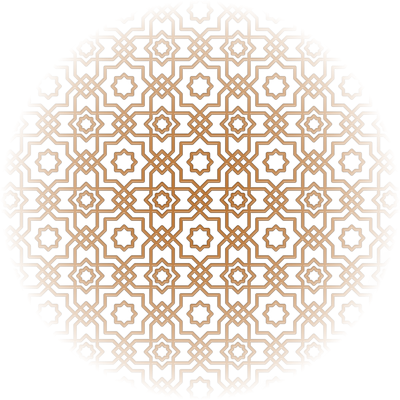
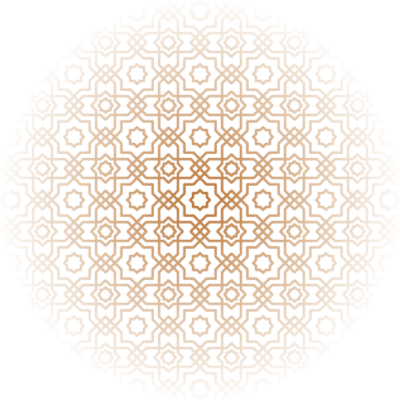
optimzing images and adding astrolab

diff --git a/src/scripts/astrolab.ts b/src/scripts/astrolab.ts
@@ -7,10 +7,10 @@ if (axe !== null) {
     const currentX = e.clientX;
     const currentY = e.clientY;
     const { height, width, x, y } = axe.getBoundingClientRect();
-    const disX = Math.ceil(currentX - (x + width / 2));
-    const disY = Math.ceil(currentY - (y + height / 2));
+    const disX = currentX - (x + width / 2);
+    const disY = currentY - (y + height / 2);
 
-    const angle = (Math.atan(disY / disX) * 180) / Math.PI;
+    const angle = Math.atan2(disY, disX) * (180 / Math.PI);
     gsap.to(axe, {
       rotate: angle,
       duration: 0.1,

diff --git a/TODO.MD b/TODO.MD
@@ -1,0 +1,4 @@
+# To do list
+
+ - [ ] Heading components.
+ - [ ] Text content.
